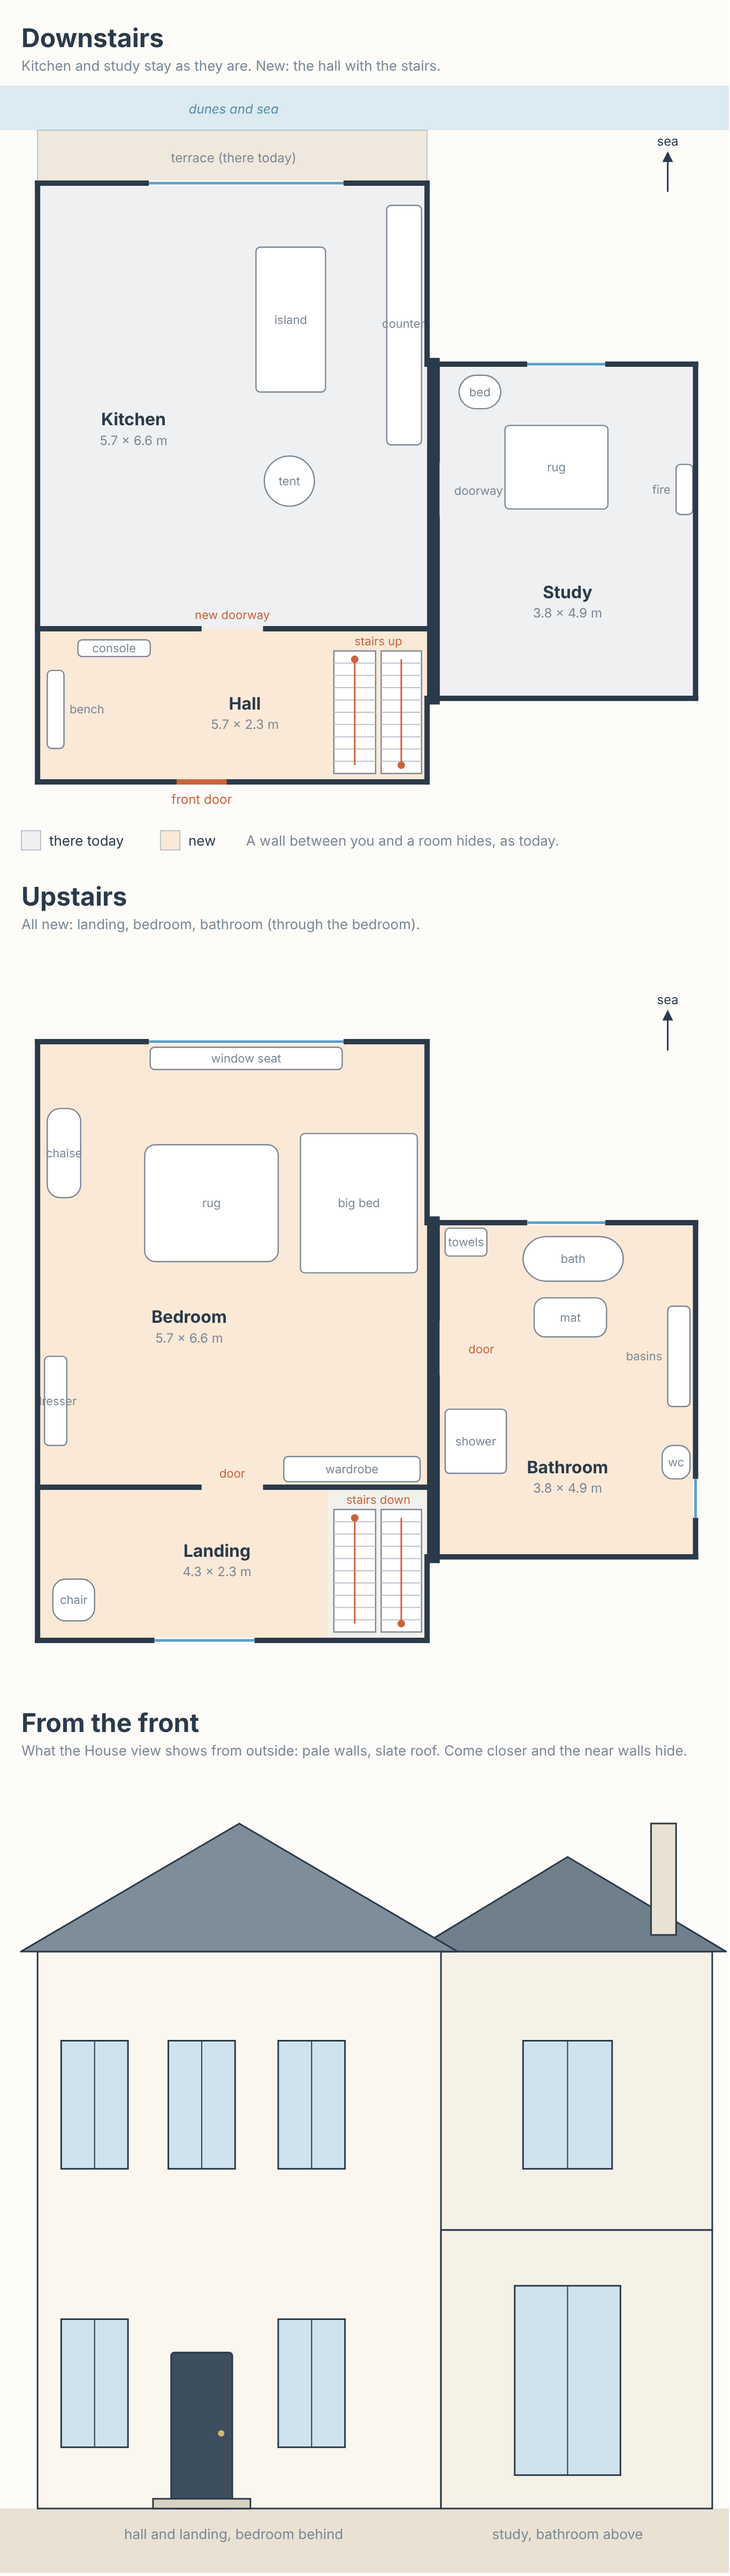
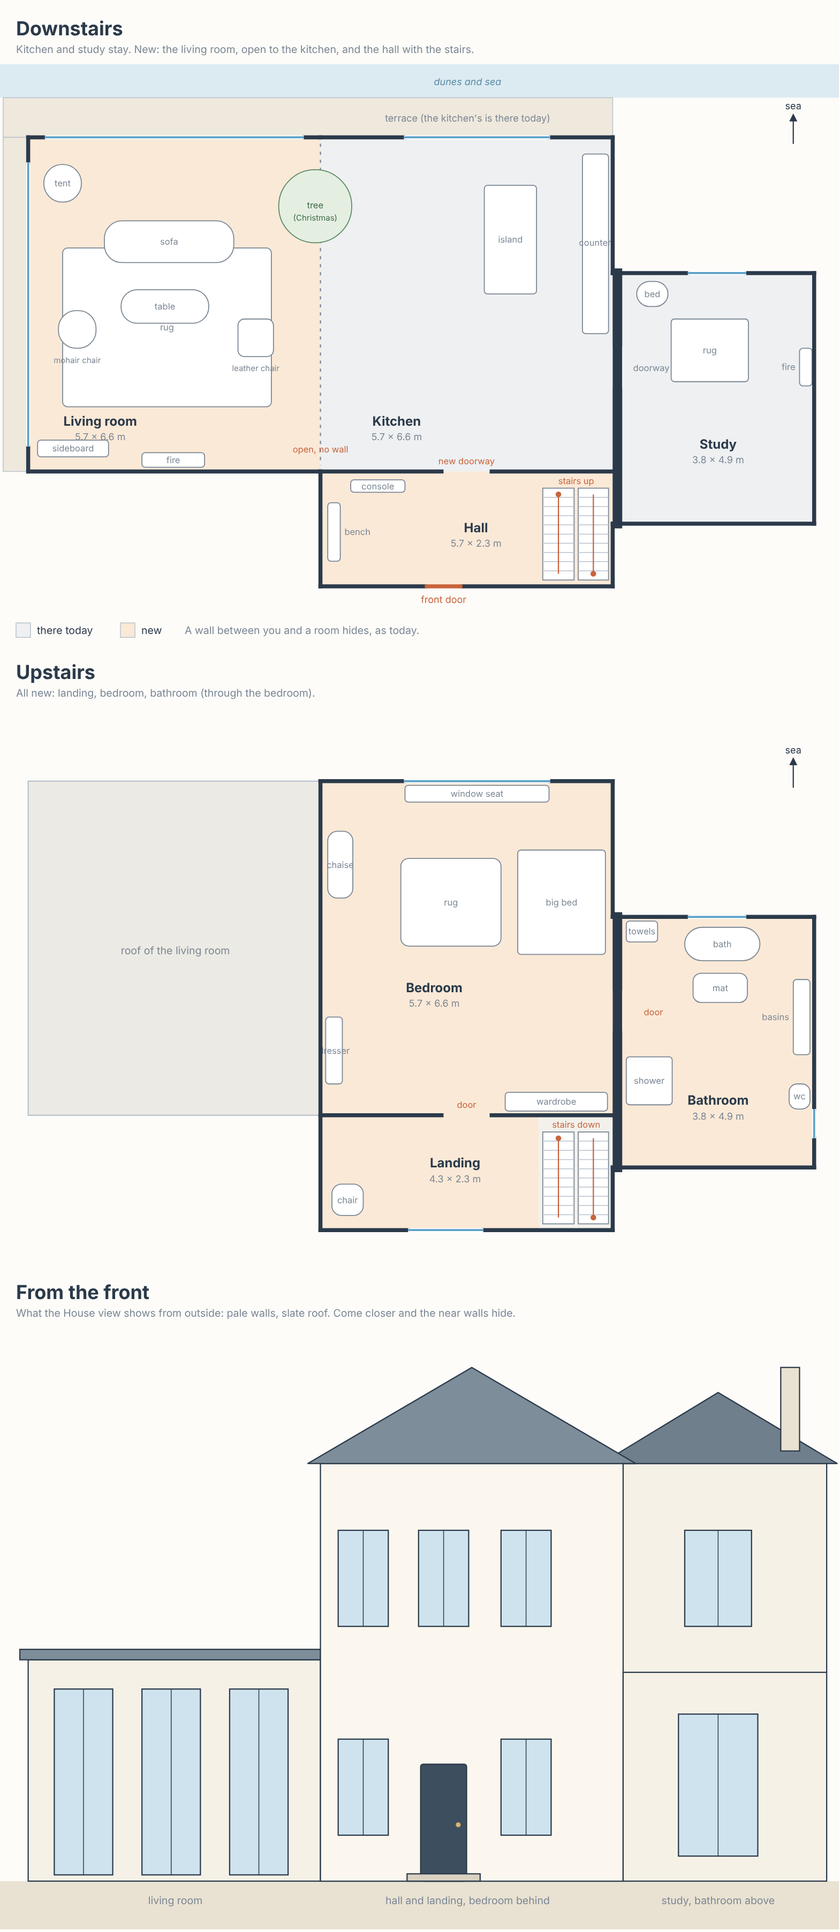
House plan: add the living room the kitchen opens into, from Merlin's reference picture
Claude-Session: https://claude.ai/code/session_01URjRU2tdXdn75tmcCbpUzn

diff --git a/docs/phases/21-house.md b/docs/phases/21-house.md
@@ -1,4 +1,4 @@
-# Phase 21: the house (hall, stairs, upstairs, bathroom, roof)
+# Phase 21: the house (living room, hall, stairs, upstairs, bathroom, roof)
 
 Merlin, 2026-11-18: more rooms she can walk freely, a second floor, a roof,
 a bathroom; "a normal luxury house"; a blueprint first, then build. He
@@ -10,6 +10,14 @@ Blueprint: `docs/house/blueprint.png` (drawn by `node tools/house-blueprint.mjs`
 which holds every size; change the plan there).
 
 ## What it does
+- **Living room** (Merlin's reference picture, 2026-11-18:
+  `docs/house/reference-living-room.jpg`): the kitchen opens into it with
+  no wall between. Glazing from floor to ceiling on the sea side and the
+  end, an antique wool rug, a curved cream sofa, a rosewood coffee table, a
+  worn leather chair, an aubergine mohair chair, a big painting over a
+  sideboard, a fireplace. At Christmas the tree stands where the two
+  spaces meet. Her tent moves here. Things she does: nap on the sofa, lie
+  by the fire, knead the throw, watch the sea from the glazing.
 - Downstairs: kitchen and study as they are, plus a **hall** with the front
   door and the stairs, reached by a new doorway in the kitchen's side wall.
 - Upstairs: a **landing**, a **bedroom** over the kitchen, a **bathroom**
@@ -35,7 +43,11 @@ through at her eye level (stays in "Later").
 
 ## Build order (one session each; each ends on the preview with a phone speed check)
 Before it: phase 20 finished (she crosses the doorway for real, `dist/house.js`).
-1. **The hall.** A third room in `ROOMS` and a second doorway in `DOORS`
+1. **The living room**, joined to the kitchen's front (`K.front`, the wall
+   phase 20 left for it): one open space, the tree moved to the join.
+   The furniture is built in code like the kitchen's; the picture sets
+   the mood and materials, not a photo likeness.
+1b. **The hall.** A third room in `ROOMS` and a second doorway in `DOORS`
    (`dist/house.js`); whatever in `app.js` still assumes two rooms
    (`joinRooms`, `cullThroughDoor`, "the other room") becomes a list.
 2. **Stairs and landing.** Floors at different heights (`groundAt`), her
@@ -47,7 +59,7 @@ Stop rule: if a real phone stutters after a step, fix speed before the next.
 
 ## Done when
 She can walk by herself from her bed in the study to the bath mat upstairs
-and back; the room picker and the House view reach all six rooms; each new
+and back; the room picker and the House view reach all seven rooms; each new
 room has its things to do; a phone holds the frame rate it has today in the
 kitchen; saves from before still load.
 
@@ -58,12 +70,14 @@ kitchen; saves from before still load.
 - Hall: x -19.05 to -5.05, z 6.1 to 11.6. New doorway in the kitchen's
   right wall (kitchen's own z about 1.6 to 4; check the Christmas tree's
   corner, the tent and the bowl clear it). Front door in its south wall.
-- Phase 20's brief names a living room at the kitchen's front (west) for
-  later: this plan leaves that side free.
+- Living room: x -33.05 to -19.05, z -9.9 to 6.1, one storey with its own
+  roof; no wall to the kitchen (the kitchen's front wall goes).
 - Upper floor at y 10 (kitchen walls are 9.5, the study's 12: trim to 10).
 - Stairs: two flights of 10 steps with a half landing, at the hall's east end.
 
 ## Risks
+- The living room is the heaviest room to draw (much glazing with the
+  outdoors behind it, the tree at Christmas) and sits in view of the kitchen.
 - Phone speed has never been measured on a real phone, even for two rooms.
 - Stairs are a new kind of movement for her (the leg work of phases 01, 07, 12).
 - The study only lets her walk on the rug; the new rooms need real floor

diff --git a/docs/ROADMAP.md b/docs/ROADMAP.md
@@ -27,7 +27,7 @@ One phase per session (see `WORKFLOW.md`). Briefs are in `docs/phases/`.
 | 18 | [Phone speed and an offline copy](phases/18-phone-speed-offline.md) | live (build 392) | Merlin 2026-11-13, speed and offline together. First open on a phone 2.8 MB (was about 9.8): her model packed (2.2 MB on a phone), three.js minified. An offline copy (`sw.js`): opens with no signal, a new build swaps whole at a launch. A quality step-down in the room, `?fps` readout. `tools/qa/load.mjs`, `quality.mjs`. Not verified: frame rate and offline on real phones. |
 | 19 | App Store groundwork ([the list](app-store.md)) | preview | Merlin 2026-11-14. No Apple account, no spending, no wrapper. Built: a privacy page written from what the app really keeps and sends (`dist/privacy.html`, linked from the footer and the name card, kept in the offline copy), and the written list of what a wrapper app needs. Found: the name "Pocket Kitten" is taken on the store. Open: a contact address for the page. |
 | 20 | [One home: she walks between rooms](phases/20-one-home.md) | todo | Merlin 2026-11-18: she should roam a house, not one room. First version: study + kitchen joined for real (walks through the doorway, camera follows, no teleport); food and water in the kitchen only. New rooms later, one per phase. |
-| 21 | [The house: hall, stairs, upstairs, bathroom, roof](phases/21-house.md) | todo | Merlin 2026-11-18, blueprint approved (`docs/house/blueprint.png`). After phase 20. Five build steps, one session each, a phone speed check after each. |
+| 21 | [The house: living room, hall, stairs, upstairs, bathroom, roof](phases/21-house.md) | todo | Merlin 2026-11-18, blueprint approved (`docs/house/blueprint.png`). After phase 20. Living room first (his reference picture), then five more build steps, one session each, a phone speed check after each. |
 | 09 | Small test group | todo | Share with 10-20 people (different phones) with a way to send feedback, before the 1000-member group. |
 
 ## Done (live build 174, `97f11c8`)

diff --git a/SPEC.md b/SPEC.md
@@ -233,7 +233,8 @@ Build order and status: `docs/ROADMAP.md` (a brief per phase in
 decor, Miso, phase 08 (app screens), phase 09 (test group).
 
 ## Planned: the house (phase 21, Merlin 2026-11-18)
-After phase 20 (One home). A hall with stairs, an upstairs landing, a
+After phase 20 (One home). A living room the kitchen opens into (first;
+reference picture `docs/house/reference-living-room.jpg`), a hall with stairs, an upstairs landing, a
 bedroom and a bathroom, a roof, and a House view of the whole house (tap a
 room). She walks everywhere herself. Blueprint (approved 2026-11-18):
 `docs/house/blueprint.png`; brief and build order: `docs/phases/21-house.md`.
